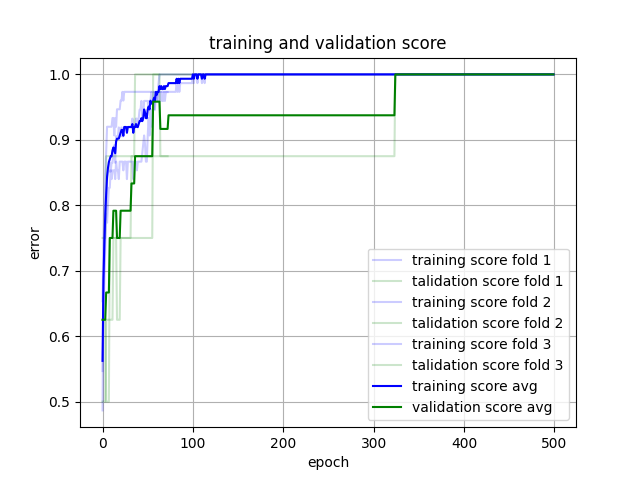
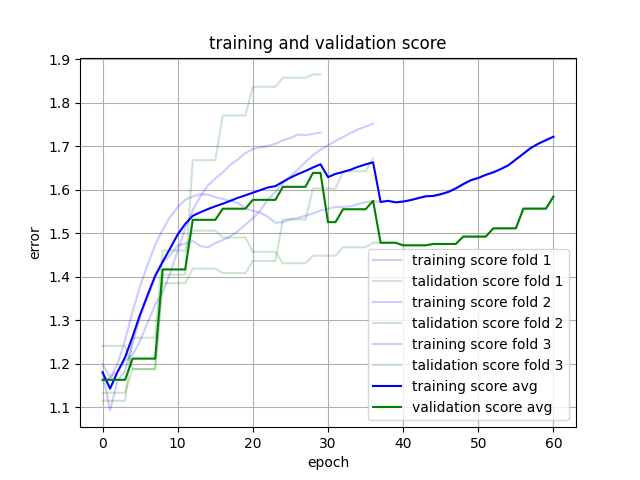
after merge fixes

diff --git a/network.py b/network.py
@@ -17,9 +17,9 @@ class Network:
         hidden_layer_sizes=[3], 
         loss='mse', 
         evaluation_metric = 'mse',
-        epochs=200,
+        epochs = 200,
         learning_rate ='fixed',
-        learning_rate_init=0.001,
+        learning_rate_init=0.0001,
         tau=100,
         batch_size=1, # 1 = stochastic, 1.0 = un batch
         lambd=0.0001,
@@ -27,8 +27,8 @@ class Network:
         verbose=True,
         nesterov = False,
         early_stopping = True, # TODO: checks
-        stopping_patience = 20, # TODO: se validation_frequency è alta può essere basso
-        validation_size = 10, # TODO: implement as batch size (if float % otw absolute)
+        stopping_patience = 20, 
+        validation_size = 0.1, 
         tol=0.0005,
         validation_frequency = 4 # TODO: formalmente dovremmo esprimerla coma frazione...
         ):
@@ -57,7 +57,7 @@ class Network:
         if evaluation_metric not in EVALUATION_METRICS:
             raise ValueError ("Unrecognized evaluation metric '%s'. "
                 "Supported evaluation metrics are %s."% (evaluation_metric, list(EVALUATION_METRICS)))
-        self.evalutaion_metric = EVALUATION_METRICS[evaluation_metric]
+        self.evaluation_metric = EVALUATION_METRICS[evaluation_metric]
         learning_rate_schedules = ["fixed", "linear_decay"]
         if learning_rate not in learning_rate_schedules:
             raise ValueError("Unrecognized learning_rate_schedule '%s'. "
@@ -67,7 +67,7 @@ class Network:
             raise ValueError("learning_rate_init must be > 0, got %s. " % learning_rate_init)
         self.learning_rate_init = learning_rate_init
         self.learning_rate_curr = learning_rate_init
-        self.learning_rate_fin = learning_rate_init * 0.1 # REVIEW: parametrize?
+        self.learning_rate_fin = learning_rate_init * 0.1 
         if tau <= 0 or tau > self.epochs:
             raise ValueError("tau must be > 0 and <= epochs, got %s." % tau)
         self.tau = tau
@@ -124,10 +124,10 @@ class Network:
             result.append(output)
 
         result = np.array(result) # converts external list into numpy array
-        if self.y_flatten:
-            result = result.reshape(result.shape[0])
-        else:
-            result = result.reshape(result.shape[0], result.shape[2])
+        # if self.y_flatten:
+        #     result = result.reshape(result.shape[0])
+        # else:
+        result = result.reshape(result.shape[0], result.shape[2])
         return result
 
     def update_learning_rate(self, epoch):
@@ -162,24 +162,25 @@ class Network:
                 #validation_size = max(int(len(x_train)/100 * self.validation_size), 1)
                 #x_train, x_val, y_train, y_val = train_test_split(x_train, y_train, test_size=validation_size, shuffle=True)
                 
-        """#shuffle the whole training set 
-        x_train, y_train = unison_shuffle(x_train, y_train)
+        # #shuffle the whole training set 
+        # x_train, y_train = unison_shuffle(x_train, y_train)
         
-        #split training set for validation
-        validation_size = max(int(len(x_train)/100 * self.validation_split), 1)
-        x_val = x_train[:validation_size]
-        y_val = y_train[:validation_size]    
-        x_train = x_train[validation_size:]
-        y_train = y_train[validation_size:]
-        """
+        # #split training set for validation
+        # validation_size = max(int(len(x_train)/100 * self.validation_size), 1)
+        # x_val = x_train[:validation_size]
+        # y_val = y_train[:validation_size]      
+        # x_train = x_train[validation_size:]
+        # y_train = y_train[validation_size:]
+        
+        
         samples = len(x_train)   
         if self.batch_size > samples:
             raise ValueError("batch_size must not be larger than sample size, got %s." % self.batch_size)
         
-        x_train = x_train.reshape(x_train.shape[0], 1, x_train.shape[1]) # reshape to split
+        #x_train = x_train.reshape(x_train.shape[0], 1, x_train.shape[1]) # reshape to split
 
         self.y_flatten = False
-        if len(y_train.shape)==1: # TODO: check y_val, y_train have same dim
+        if len(y_train.shape)==1: 
             self.y_flatten = True
             if self.early_stopping: y_val = y_val.reshape(y_val.shape[0], 1)
             y_train = y_train.reshape(y_train.shape[0], 1)
@@ -232,6 +233,8 @@ class Network:
             x_train, y_train = unison_shuffle(x_train, y_train)
             x_train_batched = np.array_split(x_train, n_batches)
             y_train_batched = np.array_split(y_train, n_batches)
+            # x_train_batched = [x_train[i:i + self.batch_size] for i in range(0, len(x_train), self.batch_size)]
+            # y_train_batched = [y_train[i:i + self.batch_size] for i in range(0, len(y_train), self.batch_size)]
 
             # for every batches in the set loop
             for x_batch, y_batch in zip(x_train_batched, y_train_batched):
@@ -244,13 +247,12 @@ class Network:
                         output = layer.forward_propagation(output)
                       
                     # compute loss (for display)
-                    train_error += self.loss(y_true=y, y_pred=output)
+                    #train_error += self.loss(y_true=y, y_pred=output) #spostato a 264
                     
                     # backward propagation
-                    # REVIEW: rename error --> delta
-                    error = self.loss_prime(y_true=y, y_pred=output)
+                    delta = self.loss_prime(y_true=y, y_pred=output)
                     for layer in reversed(self.layers):
-                        error = layer.backward_propagation(error)
+                        delta = layer.backward_propagation(delta)
                 
                 # new learning rate
                 self.update_learning_rate(epoch)
@@ -258,19 +260,20 @@ class Network:
                 for layer in self.layers:
                     layer.update(self.learning_rate_curr, x_batch.shape[0], self.alpha, self.lambd, self.nesterov) 
             
-            # REVIEW: train error calcolata epoca per epoca, train_score alla fine
+            # REVIEW: train error calcolata batch per batch, train_score alla fine
             predict_tr = self.predict(x_train)
-            train_score = self.evalutaion_metric(y_train, predict_tr)
+            train_score = self.evaluation_metric(y_train, predict_tr)
+            train_error = self.loss(y_true=y_train, y_pred=predict_tr) #da 247
             
             #-----validation-----
-
             if self.early_stopping:
                 if (epoch % self.validation_frequency) == 0:
                     predict_val = self.predict(x_val)
-                    val_error = self.loss(y_true=y_val, y_pred=predict_val) # REVIEW: già diviso per num samples?
-                    evaluation_score = self.evalutaion_metric(y_val, predict_val)
+                    val_error = self.loss(y_true=y_val, y_pred=predict_val)
+                    evaluation_score = self.evaluation_metric(y_val, predict_val)
             
-            train_error /= samples # average on all samples # REVIEW: spostato qua sopra!
+            #train_error /= samples # average on all samples 
+            
             #-----stopping-----
             if epoch >= 10: # TODO: valutare se incrementare (minimo 30 epoche se errore cresce sempre)
                 if self.early_stopping:
@@ -284,15 +287,11 @@ class Network:
                 
                 if error_below_tol: # if we've already converged (error near 0)
                     stopping = 0
-                elif error_increased or error_decrease_perc < 1/1000: # if no more significant error decreasing (less than 0.1%) or we are not converging 
+                elif error_increased or error_decrease_perc < 1/1000: # if no more significant error decreasing (less than 0.1%) or we are not converging                   
                     stopping -= 1
                 else:
                     stopping = self.stopping_patience
-
-                # old-new < 1/1000*old => (old-new)/old < 1/1000
-                # 1000 old
-                #  999,5 new
-                # 1000 - 999,5 = 0.5 < 1 => stop
+                
             
             all_train_errors.append(train_error)
             all_train_score.append(train_score)
@@ -311,11 +310,11 @@ class Network:
 
         #show stats
 
-        """plt.plot(all_train_errors, label="training", color="blue")
+        plt.plot(all_train_errors, label="training", color="blue")
         plt.plot(all_val_errors, label= "validation", color="green")
         plt.plot(all_evalution_scores, label="score",color="red")
         plt.legend(loc="upper right")
-        plt.show()"""
+        plt.show()
         if self.early_stopping:
             return all_train_errors, all_val_errors, all_train_score, all_evalution_scores
         else:

diff --git a/new_cross_validation.py b/new_cross_validation.py
@@ -4,7 +4,7 @@ from network import Network
 from utils import fold_plot, flatten_pred, mean_and_std
 from sklearn.model_selection import StratifiedKFold
 
-def cross_validation(X_train, y_train, X_test, y_test, k, epochs):
+def cross_validation(X_train, y_train, X_test, y_test, k, epochs, activation_out, classification):
     # if k <= 1:
     #     print('Number of folds k must be more than 1')
     #     exit()
@@ -26,7 +26,8 @@ def cross_validation(X_train, y_train, X_test, y_test, k, epochs):
         y_train_fold, y_val_fold = y_train[train_index], y_train[validation_index] 
 
         # --------------train--------------
-        net = Network(activation_out='tanh')
+        #net = Network(activation_out=activation_out, classification=classification)
+        net = Network(activation_out='tanh', classification=True, activation_hidden='tanh', epochs= 1000, batch_size=32, learning_rate = "linear_decay", learning_rate_init=0.05, nesterov=True)
         tr_error, val_error, tr_score, val_score = net.fit(X_train_fold, y_train_fold) 
         
         #fill with 0s
@@ -43,8 +44,8 @@ def cross_validation(X_train, y_train, X_test, y_test, k, epochs):
 
         # --------------outer validation--------------
         pred = net.predict(X_val_fold)
-        flattened_pred = flatten_pred(pred)
-        score = accuracy_score(y_true=y_val_fold, y_pred=flattened_pred)
+        #flattened_pred = flatten_pred(pred)
+        score = net.evaluation_metric(y_true=y_val_fold, y_pred=pred)
         test_score_fold.append(score) 
     
     
@@ -85,7 +86,7 @@ def cross_validation(X_train, y_train, X_test, y_test, k, epochs):
     #-----test-----
     # predict and score
     pred_on_test_data = net.predict(X_test)
-    flattened_pred_on_test_data = flatten_pred(pred_on_test_data)
+    # flattened_pred_on_test_data = net.evalutaion_metric(pred_on_test_data)
     
     # for p, y in zip(pred_on_test_data, y_test):
     #     print("pred: {} expected: {}".format(p[0],y))
@@ -95,7 +96,7 @@ def cross_validation(X_train, y_train, X_test, y_test, k, epochs):
     print("TR error - mean: {} std: {}  \nVL error - mean {} std: {}".format(mean_tr_error, std_tr_error, mean_val_error, std_val_error))
     print("TR score - mean: {} std: {}  \nVL score - mean {} std: {}".format(mean_tr_score, std_tr_score, mean_val_score, std_val_score))
     print("outer VL score - mean: {} std: {}".format(mean_outer_val_score, std_outer_val_score))
-    print("TEST score: {}%".format(accuracy_score(y_true=y_test, y_pred=flattened_pred_on_test_data) * 100)) #TODO: non per forza accuracy
+    print("TEST score: {}%".format(net.evaluation_metric(y_true=y_test, y_pred=pred_on_test_data)))
 
     #TODO: return results?
 

diff --git a/layer.py b/layer.py
@@ -38,7 +38,6 @@ class Layer():
             self.bias = np.zeros((1, self.fan_out))
 
     def update(self, learning_rate, batch_size, alpha, lambd, nesterov):
-        # TODO: ricontrollare
         self.deltas_weights /= batch_size
         self.deltas_bias /= batch_size
  
@@ -65,15 +64,14 @@ class Layer():
         self.output = self.activation(self.net)
         return self.output
 
-    # computes dE/dW, dE/dB for a given error=dE/dY. Returns input_error=dE/dX.
-    def backward_propagation(self, error): # REVIEW: rename error --> delta_j
-        delta = np.dot(error, self.activation_prime(self.net))
-        sum_w_delta = np.dot(delta, np.transpose(self.weights)) # REVIEW: rename sum_w_delta --> delta_i
-        weights_error = np.dot(np.transpose(self.input), delta) # dE/dW
-        #weights_error = np.outer(self.input, delta) # REVIEW: rename weights_error --> delta_w
-        # dBias = delta
-        #accumalte deltas
-        self.deltas_weights += weights_error
-        self.deltas_bias += delta
+    def backward_propagation(self, delta_j): 
+        delta = np.dot(delta_j, self.activation_prime(self.net))
+        delta_i = np.dot(delta, np.transpose(self.weights)) 
+        #weights_error = np.dot(np.transpose(self.input), delta) 
+        delta_w = np.outer(self.input, delta) 
 
-        return sum_w_delta
+        #accumalte deltas
+        self.deltas_weights += delta_w
+        self.deltas_bias += delta 
+
+        return delta_i

diff --git a/monks.py b/monks.py
@@ -34,11 +34,12 @@ X_train, y_train = read_monks(TRAIN_PATH)
 X_test, y_test = read_monks(TEST_PATH)
 #print(len(X_train))
 
-"""# cross validation
-cross_validation(X_train, y_train, X_test, y_test, k=3, epochs=1000)"""
+# cross validation
+#cross_validation(X_train, y_train, X_test, y_test, k=3, epochs=1000, activation_out='tanh',classification= True)
 
-net = Network(activation_out='tanh', classification=True, activation_hidden='tanh', epochs= 1000, batch_size=32, learning_rate = "linear_decay", learning_rate_init=0.05, nesterov=True, early_stopping=False)
-all_train_errors, tr_accuracy = net.fit(X_train, y_train) # without early stopping
+net = Network(activation_out='tanh', classification=True, activation_hidden='tanh', epochs= 1000, batch_size=1, 
+learning_rate = "linear_decay", learning_rate_init=0.002, nesterov=False, early_stopping=True)
+all_train_errors, tr_accuracy, _, _ = net.fit(X_train, y_train) # without early stopping
 # #all_train_errors, all_val_errors, tr_accuracy, val_accuracy = net.fit(X_train, y_train) # with early stopping
 pred = net.predict(X_test)
 print(accuracy(y_pred=pred, y_true=y_test))

diff --git a/utils.py b/utils.py
@@ -148,10 +148,6 @@ EVALUATION_METRICS = {
     'accuracy': accuracy
 }
 
-EVALUATION_METRICS = {
-    'accuracy' : accuracy
-}
-
 #-----OTHERS-----
 def unison_shuffle(x, y):
     seed = np.random.randint(0, 100000) 
